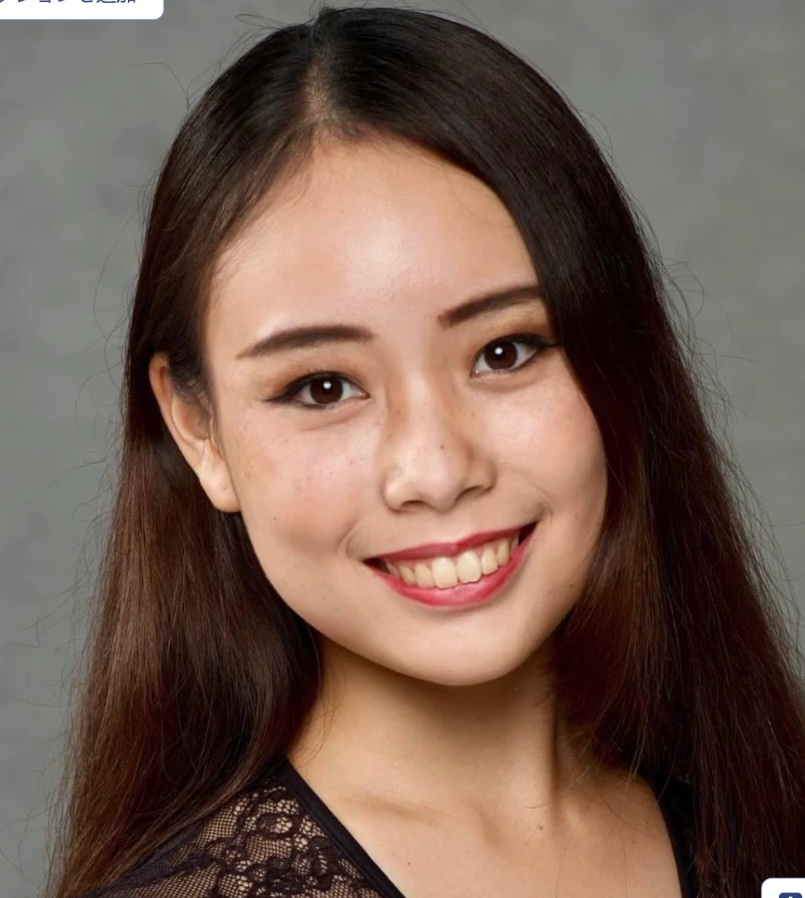
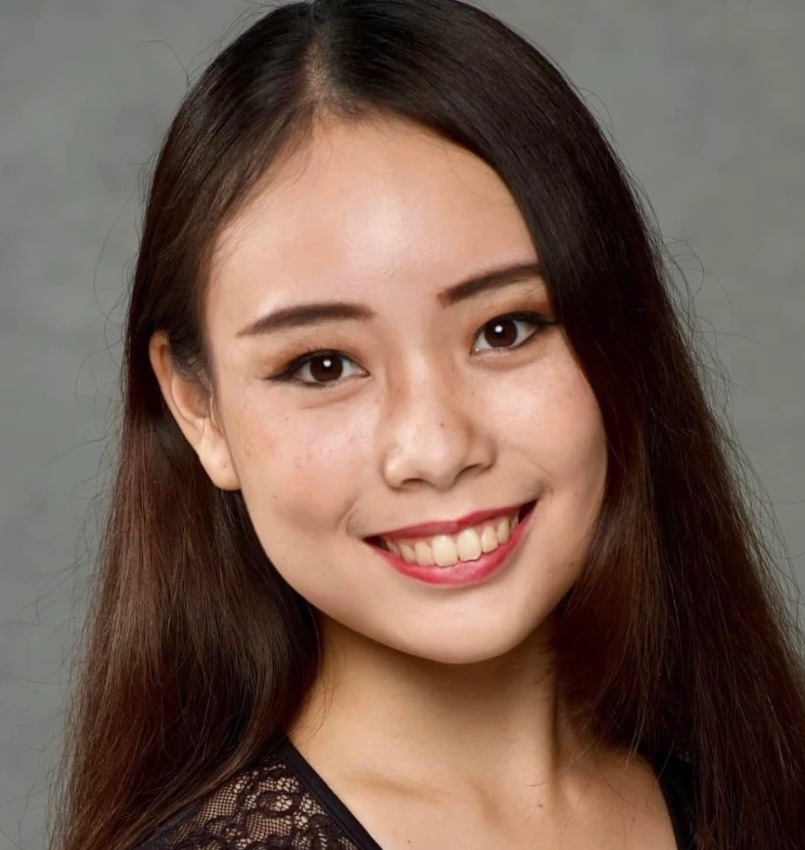
Recrop About photo to remove editor button remnants

diff --git a/index.html b/index.html
@@ -99,7 +99,7 @@ header.top a:hover { color: var(--slate); }
 /* About */
 .about { background: var(--slate); color: var(--on-color); }
 .about .wrap { display: grid; grid-template-columns: minmax(0, 1fr) minmax(0, 1fr); gap: clamp(2rem, 6vw, 6rem); align-items: center; padding-block: clamp(3rem, 6vw, 5rem); }
-.about img { width: 100%; aspect-ratio: 805 / 898; object-fit: cover; }
+.about img { width: 100%; aspect-ratio: 805 / 850; object-fit: cover; }
 .about h2, .row h3 { margin: 0 0 0.5rem; font-family: var(--font-display); font-weight: 600; font-size: var(--step-2); letter-spacing: 0.03em; }
 .about p { margin: 0 0 1em; max-width: 34em; }
 .about .meta { list-style: none; padding: 0; margin: 1.75rem 0 0; display: grid; gap: 0.35rem; border-top: 1px solid rgba(255,255,255,0.4); padding-top: 1.25rem; }
